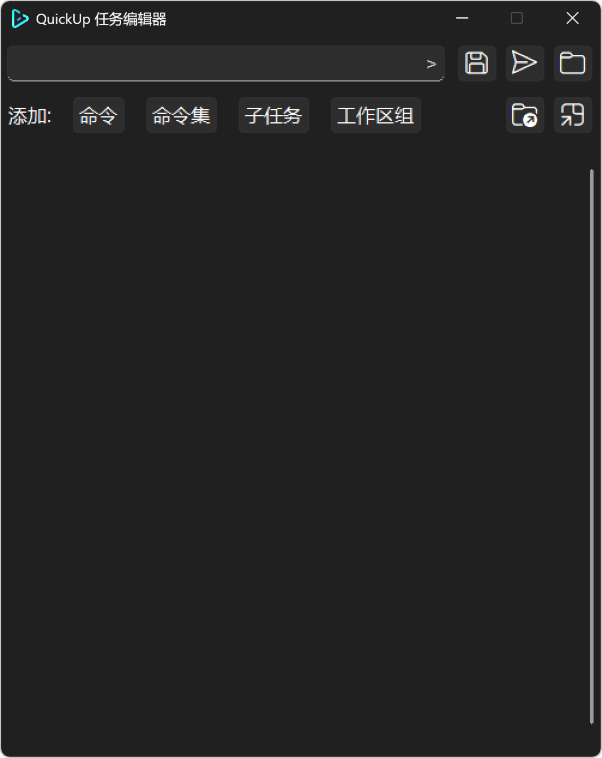
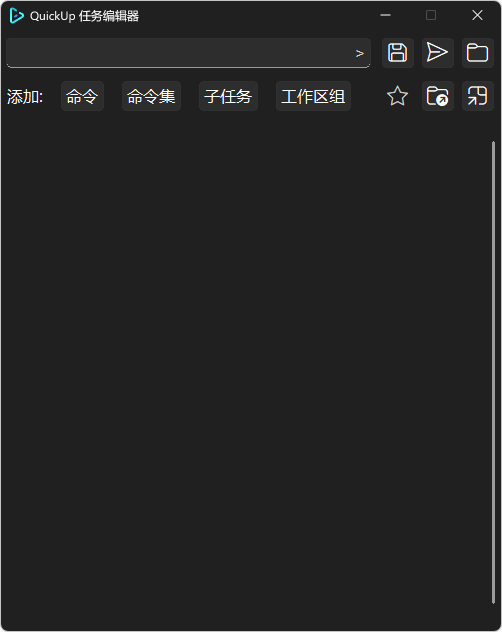
update

diff --git a/docs/_pages/document.md b/docs/_pages/document.md
@@ -48,6 +48,8 @@ The top bar of editor window:
 
   - path-button: click to set the working path of this task. **Noted that** if a sub-task has NULL working path, it will inherit its sup-task working path. If there is no working path at all, the default working path will be the place of folder of QuickUp.
 
+  - star-button: click to add this task to (or delete it from) `priority.txt` of this workspace. For more information, please see [the priority of task](https://quickup.smart-space.com.cn/priority-of-task/).
+
   - open-button: click to show where the task `.json` file is.
 
   - shortcut-button: click to create a shortcut on desktop of this task.
@@ -169,3 +171,15 @@ User can refresh the view list or to open a task or a workspace folder.
 QuickUp can be closed to system tray. It can only be stopped by pressing the quit-button of the menu (mouse-right-click to show the menu) or shutdown the computer.
 
 QuickUp (root workspace) can be raised by using the hot-key. Be sure there is not another application using the same hot-key.
+
+---
+
+# Command Line
+
+`quickup [-w|--workspace] [-t|--task] [-s|--silent]`
+
+`-w,--workspace`: open specific workspace. When there is no `-t`, this command just opens a workspace of QuickUp window.
+
+`-t,--task`: run specific task.
+
+`-s,--silent`: close to system stray if it can when QuickUp start.
